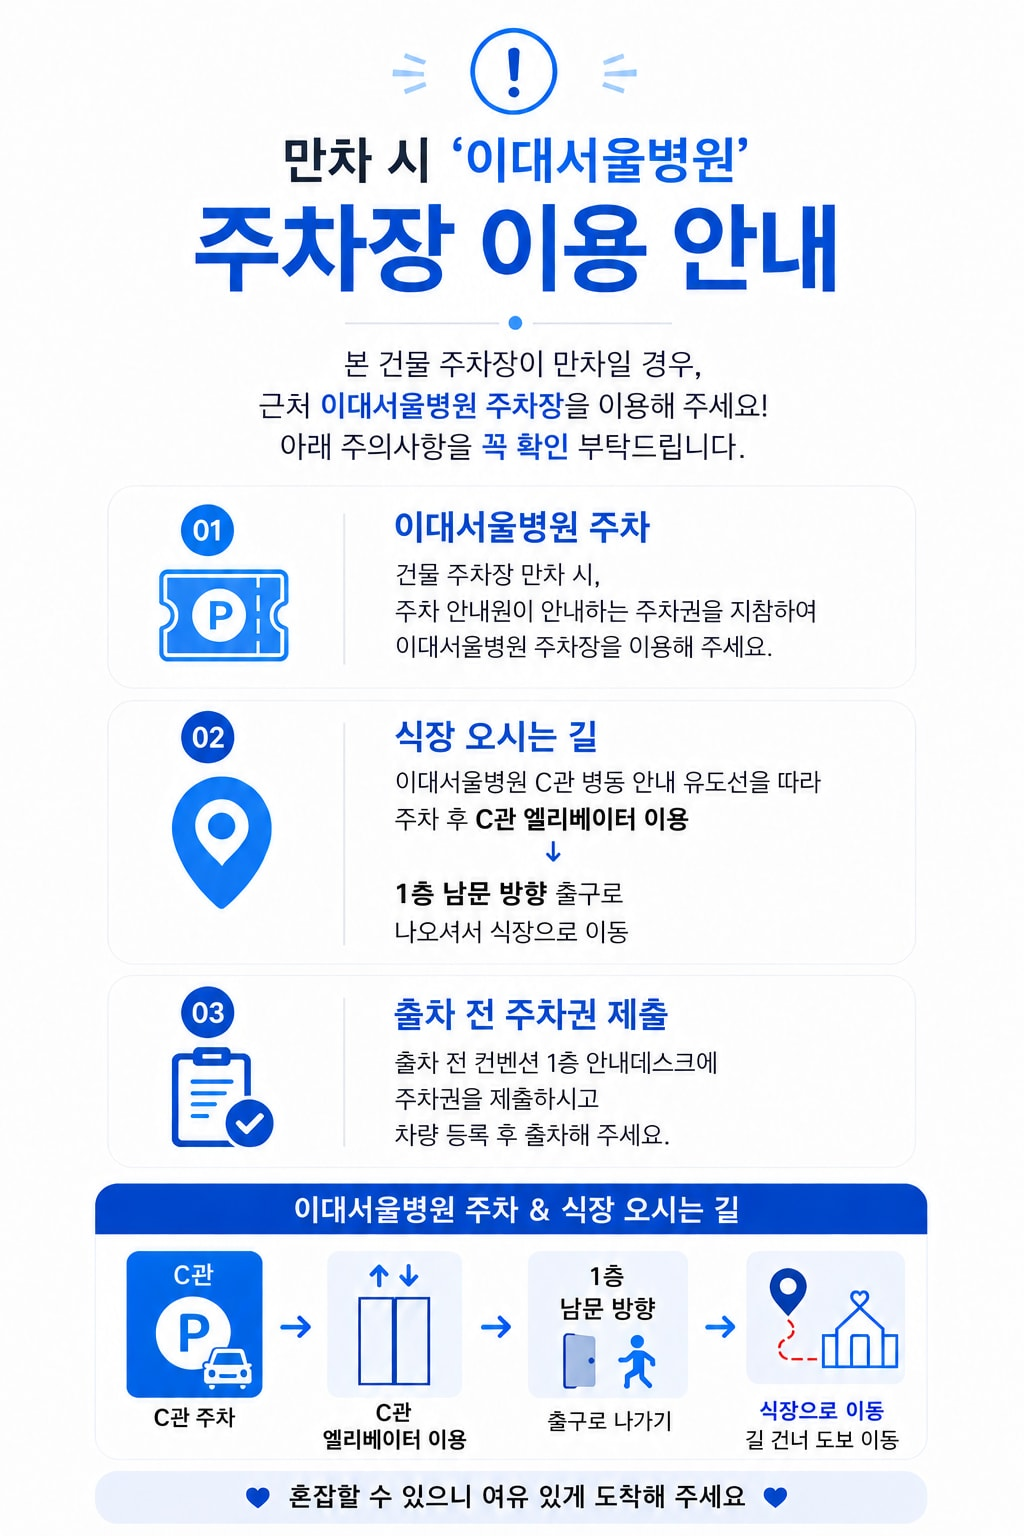
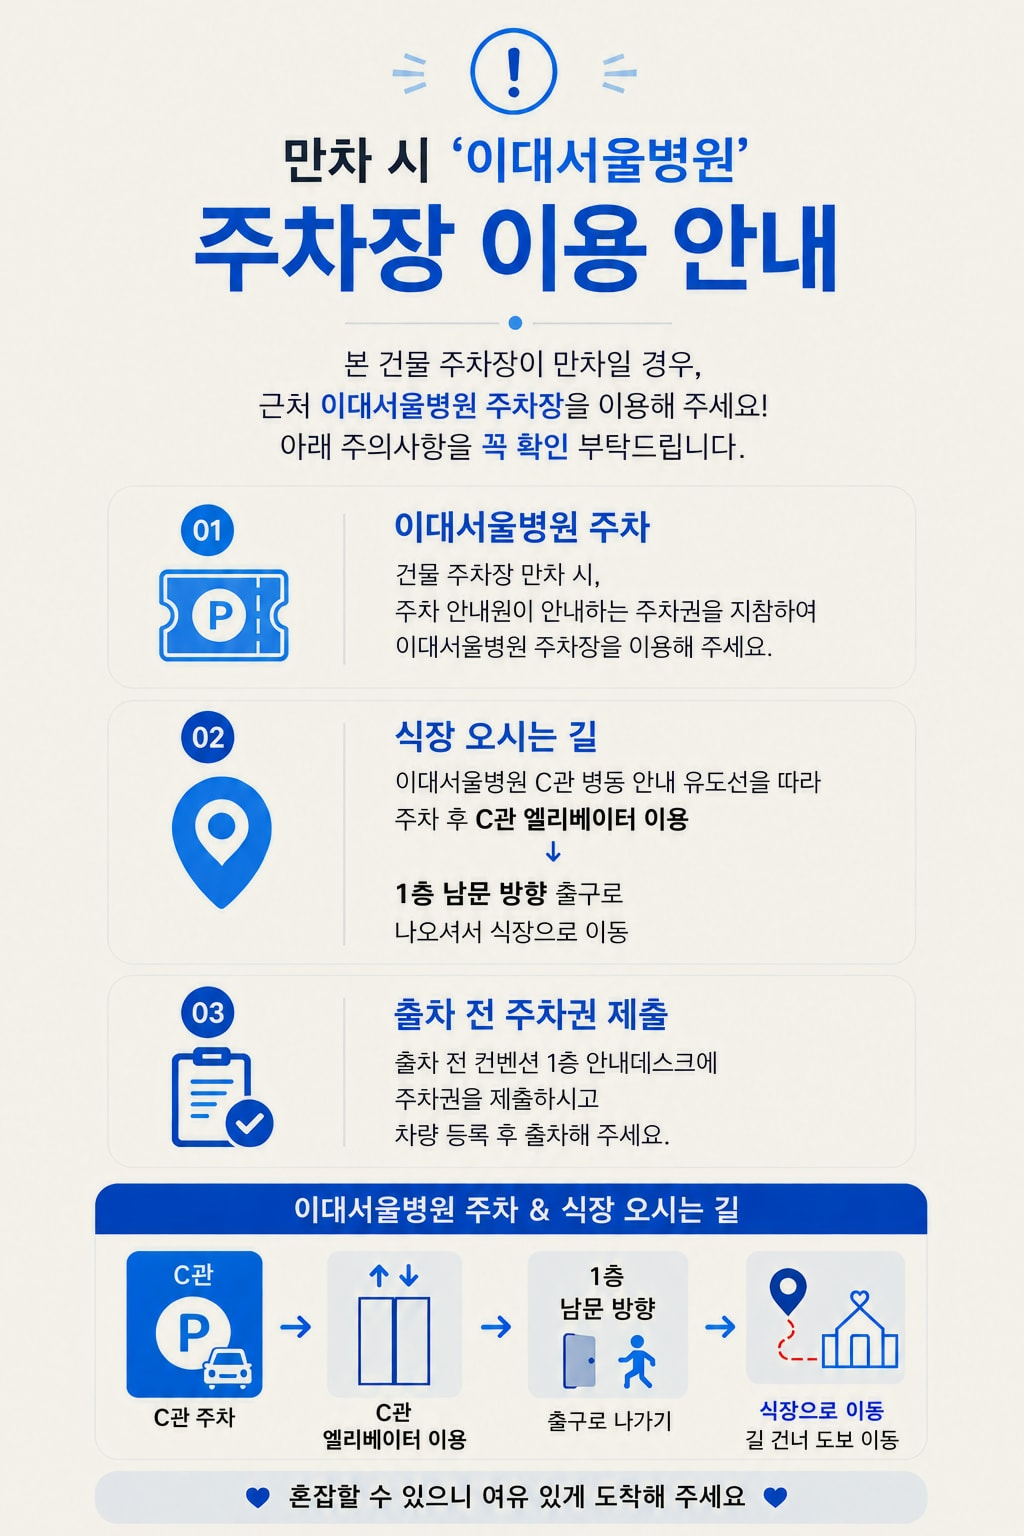
Tint the parking guide images onto the invitation ivory
The notice was pure white and the route map warm white, so both sat as
boxes on the ivory viewer. A per-channel multiply from the originals puts
their paper exactly on #f3f1e9 without haloing edges.

diff --git a/src/styles/global.css b/src/styles/global.css
@@ -173,7 +173,7 @@ h1, h2, h3 { font-weight: 400; }
 .parking-header { position: sticky; top: 0; z-index: 1; display: flex; align-items: center; justify-content: space-between; padding: max(6px, env(safe-area-inset-top)) max(8px, env(safe-area-inset-right)) 6px max(22px, env(safe-area-inset-left)); background: var(--paper); border-bottom: 1px solid var(--line-light); }
 .parking-header h2 { font-family: var(--korean-serif); font-size: 17px; }
 .parking-images { display: grid; gap: 16px; max-width: 720px; margin: 0 auto; padding: 16px 0 max(24px, env(safe-area-inset-bottom)); }
-.parking-images img { width: 100%; background: #fff; }
+.parking-images img { width: 100%; }
 .contact-button { width: 100%; margin-top: 28px; background: var(--accent); color: var(--paper); }
 .contact-button:hover { background: #3f4a30; }
 
